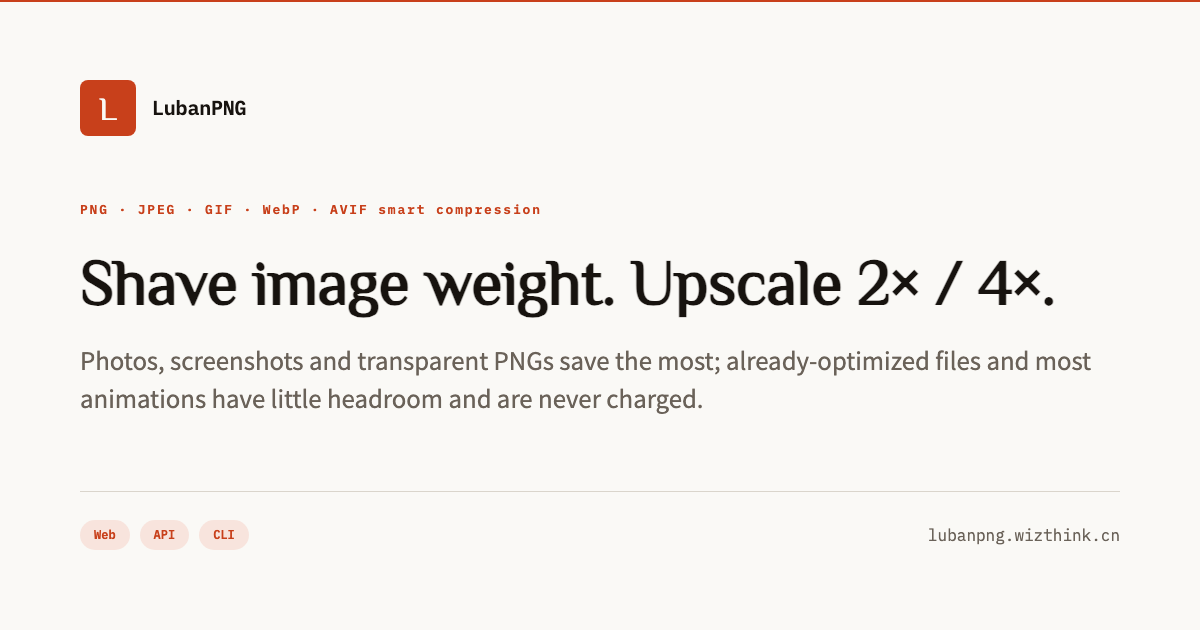
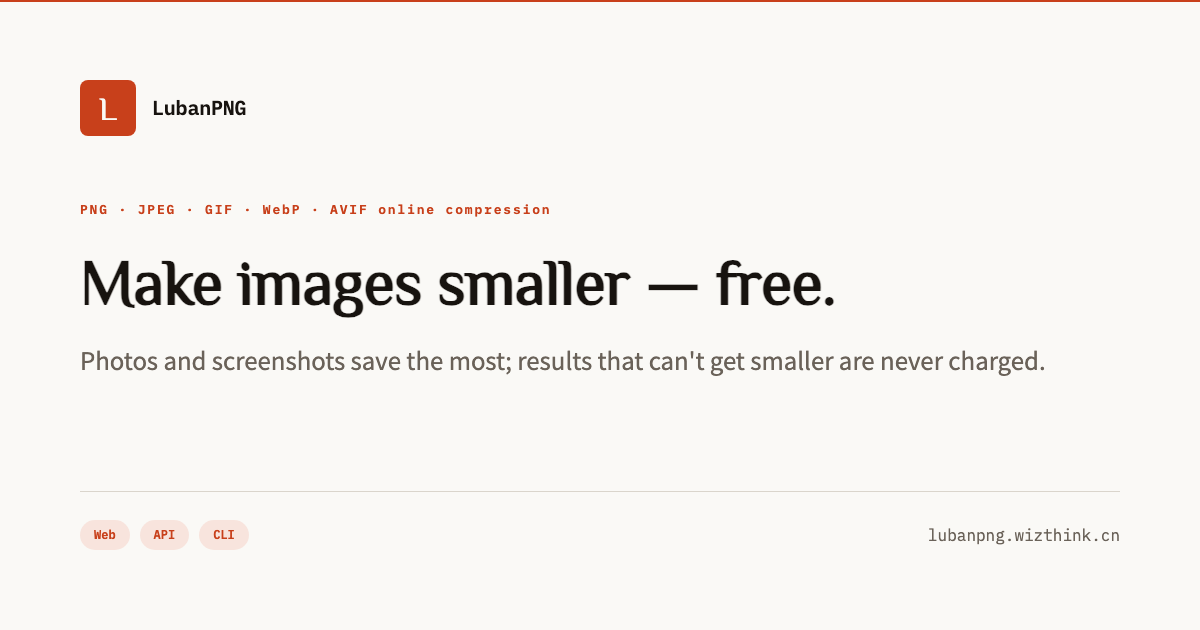
Rewrite the home hero copy in plain language and drop the lede

diff --git a/apps/web/src/i18n/locales/en.ts b/apps/web/src/i18n/locales/en.ts
@@ -31,13 +31,8 @@ export const en: Messages = {
   "footer.privacy.short": "Privacy",
   "footer.source": "Open source on GitHub · Curzibn/LubanPNG",
 
-  "home.eyebrow": "PNG · JPEG · GIF · WebP · AVIF smart compression",
-  "home.title": "Shave image weight. Upscale 2× / 4×.",
-  "home.lede.mobile":
-    "Photos, screenshots and transparent PNGs usually save the most; already-optimized files and most animations have little headroom, and anything that can't be made smaller is never charged. One click also converts to WebP / AVIF. Upscaling 2× / 4× runs through the API; failed upscales are never charged.",
-  "home.lede.desktop":
-    "LubanPNG gives each format its own path: PNG is palette-quantized then polished losslessly, JPEG has its source quality recovered first so already-light images are never re-compressed, animations are quantized frame by frame with the animation intact, and static images convert to WebP / AVIF in one click. Photos, screenshots and transparent PNGs usually save the most; already-optimized files and most animations have little headroom — a result that can't be made smaller is never charged. Upscaling 2× / 4× runs through the API; failed upscales are never charged.",
-  "home.lede.apiLink": "through the API",
+  "home.eyebrow": "PNG · JPEG · GIF · WebP · AVIF online compression",
+  "home.title": "Make images smaller — free.",
   "home.quota.anonymous.lead": "Today's free runs are used up.",
   "home.quota.anonymous.action": "Sign in to keep going",
   "home.quota.anonymous.body": "Signing up gives you 50 runs a month, shared across the web app, API and CLI.",
@@ -442,9 +437,9 @@ export const en: Messages = {
   "nf.body": "The address may be mistyped, or the page has moved.",
   "nf.back": "Back home",
 
-  "meta.home.title": "LubanPNG · Shave image weight. Upscale 2× / 4×",
+  "meta.home.title": "LubanPNG · Compress images online, free",
   "meta.home.description":
-    "Compress PNG, JPEG, GIF, WebP and AVIF images online — static images convert formats, animations stay animated — and upscale PNG or JPEG 2× or 4×. Photos, screenshots and transparent PNGs save the most, while already-optimized files and most animations have little headroom; results that can't get smaller are never charged, and failed upscales are never charged either. One quota shared across web, API and CLI, free to use.",
+    "Compress PNG, JPEG, GIF, WebP and AVIF images online — animations stay animated, static images convert between formats, and PNG or JPEG upscale 2× or 4×. Results that can't get smaller are never charged. Free, with one quota across web, API and CLI.",
   "meta.pricing.title": "Pricing · LubanPNG",
   "meta.pricing.description": "One quota shared across web, API and CLI: 5 runs a day signed out, 50 a month signed in. Compressions are counted only when the output really gets smaller; a successful upscale costs 1 run and failed upscales are never charged. Pro and metered plans are in the works.",
   "meta.developers.title": "Developers · LubanPNG",
@@ -460,7 +455,7 @@ export const en: Messages = {
   "meta.dashboard.description": "Your LubanPNG dashboard: quota usage, API keys and recent tasks.",
   "meta.notFound.title": "Page not found · LubanPNG",
   "meta.notFound.description": "The page you were looking for doesn't exist or has moved.",
-  "meta.ogImageAlt": "LubanPNG: shave image weight, upscale 2× / 4×. Compression supports PNG · JPEG · GIF · WebP · AVIF; upscaling supports PNG / JPEG",
+  "meta.ogImageAlt": "LubanPNG: compress images online — PNG, JPEG, GIF, WebP and AVIF, plus 2× / 4× upscaling for PNG and JPEG",
 
   "api.networkError": "Network error — check your connection and try again",
   "api.unreadable": "The service is unavailable right now. Please try again later.",

diff --git a/apps/web/src/i18n/locales/zh-CN.ts b/apps/web/src/i18n/locales/zh-CN.ts
@@ -29,13 +29,8 @@ export const zhCN = {
   "footer.privacy.short": "隐私",
   "footer.source": "开源于 GitHub · Curzibn/LubanPNG",
 
-  "home.eyebrow": "PNG · JPEG · GIF · WebP · AVIF 智能压缩",
-  "home.title": "把图片刨薄，也能放大 2×、4×。",
-  "home.lede.mobile":
-    "照片、截图与透明 PNG 通常收益最大，已经压过的图和多数动图空间有限；压不小就不计次数，还能一键转 WebP / AVIF。放大 2× / 4× 通过 API，失败不计次数。",
-  "home.lede.desktop":
-    "鲁班刨按格式各走一套压缩路径：PNG 先做调色板量化再无损重编码，JPEG 先反推原图质量、低质量图不再重复压缩，动图逐帧量化并保留动画，静态图还能一键转成 WebP / AVIF。照片、截图与透明 PNG 通常收益最大；已经压过的图与多数动图空间有限，压不小就不计次数。放大 2× / 4× 通过 API，失败不计次数。",
-  "home.lede.apiLink": "通过 API",
+  "home.eyebrow": "PNG · JPEG · GIF · WebP · AVIF 在线压缩",
+  "home.title": "把图片变小，免费。",
   "home.quota.anonymous.lead": "今日免费次数已用完。",
   "home.quota.anonymous.action": "登录后继续用",
   "home.quota.anonymous.body": "注册即每月 50 次，网页、API、CLI 共用同一份额度。",
@@ -426,9 +421,9 @@ export const zhCN = {
   "nf.body": "地址可能写错了，或者页面已经移走。",
   "nf.back": "回到首页",
 
-  "meta.home.title": "LubanPNG · 把图片刨薄，也能放大 2×、4×",
+  "meta.home.title": "LubanPNG · 免费在线压缩图片",
   "meta.home.description":
-    "鲁班刨（LubanPNG）在线压缩 PNG、JPEG、GIF、WebP、AVIF 图片，静态图可转换格式，动图保留动画；也能把 PNG、JPEG 放大 2× 或 4×。照片、截图与透明 PNG 收益最大，已经压过的图与多数动图空间有限；压不小不计次数，放大失败同样不计次数。网页、API、CLI 共用一份额度，免费可用。",
+    "LubanPNG 在线压缩 PNG、JPEG、GIF、WebP、AVIF 图片：动图保留动画，静态图可转格式，也能放大 2×、4×。没变小不计次数，免费使用，网页、API、CLI 共用额度。",
   "meta.pricing.title": "定价 · LubanPNG",
   "meta.pricing.description": "网页、API、CLI 共用一份额度：未登录每天 5 次，注册后每月 50 次；压缩只有真正产出更小文件才计次，放大成功计 1 次且失败不计次；Pro 与按量套餐规划中。",
   "meta.developers.title": "开发者 · LubanPNG",
@@ -443,7 +438,7 @@ export const zhCN = {
   "meta.dashboard.description": "LubanPNG 工作台：额度用量、API Key 与最近任务。",
   "meta.notFound.title": "页面不存在 · LubanPNG",
   "meta.notFound.description": "你访问的页面不存在或已经移走。",
-  "meta.ogImageAlt": "鲁班刨：把图片刨薄，也能放大 2×、4×。压缩支持 PNG·JPEG·GIF·WebP·AVIF，放大支持 PNG·JPEG",
+  "meta.ogImageAlt": "LubanPNG：在线压缩图片，支持 PNG、JPEG、GIF、WebP、AVIF，也能放大 PNG、JPEG 2×、4×",
 
   "api.networkError": "网络错误，请检查连接后重试",
   "api.unreadable": "服务暂时不可用，请稍后再试",

diff --git a/apps/web/src/pages/home/HomePage.tsx b/apps/web/src/pages/home/HomePage.tsx
@@ -19,37 +19,14 @@ import { QuotaChip } from "./QuotaChip.tsx"
 import { ResultsBoard } from "./ResultsBoard.tsx"
 import { useCompressor } from "./useCompressor.ts"
 
-const LedeText = ({ text, label, to }: { text: string; label: string; to: string }) => {
-  const index = text.indexOf(label)
-  if (index < 0) return <>{text}</>
-  return (
-    <>
-      {text.slice(0, index)}
-      <Link to={to} className="text-vermilion hover:text-vermilion-hover">
-        {label}
-      </Link>
-      {text.slice(index + label.length)}
-    </>
-  )
-}
-
 const Hero = () => {
-  const { locale, t } = useI18n()
-  const upscaleHref = `${localizedPath("/developers", locale)}#upscale`
+  const { t } = useI18n()
   return (
     <section className="flex flex-col gap-3.5 pb-5 pt-9 md:items-center md:gap-5 md:pb-9 md:pt-18 md:text-center">
       <Eyebrow size="responsive">{t("home.eyebrow")}</Eyebrow>
       <h1 className="max-w-prose font-display text-display-mobile text-balance text-ink md:text-display-hero">
         {t("home.title")}
       </h1>
-      <p className="max-w-lede text-body text-pretty text-ink-secondary md:text-lede">
-        <span className="md:hidden">
-          <LedeText text={t("home.lede.mobile")} label={t("home.lede.apiLink")} to={upscaleHref} />
-        </span>
-        <span className="hidden md:inline">
-          <LedeText text={t("home.lede.desktop")} label={t("home.lede.apiLink")} to={upscaleHref} />
-        </span>
-      </p>
     </section>
   )
 }

diff --git a/packages/design-tokens/og-copy.ts b/packages/design-tokens/og-copy.ts
@@ -13,18 +13,18 @@ export const ogLocales: OgLocaleCopy[] = [
     file: "og.png",
     lang: "zh-CN",
     mark: "鲁",
-    eyebrow: "PNG · JPEG · GIF · WebP · AVIF 智能压缩",
-    headline: "把图片刨薄，也能放大 2×、4×。",
-    lede: "照片、截图与透明 PNG 收益最大；已经压过的图与多数动图空间有限，压不小不计次数。",
+    eyebrow: "PNG · JPEG · GIF · WebP · AVIF 在线压缩",
+    headline: "把图片变小，免费。",
+    lede: "照片和截图收益最大；没变小不计次数。",
     chips: ["网页", "API", "CLI"],
   },
   {
     file: "og-en.png",
     lang: "en",
     mark: "L",
-    eyebrow: "PNG · JPEG · GIF · WebP · AVIF smart compression",
-    headline: "Shave image weight. Upscale 2× / 4×.",
-    lede: "Photos, screenshots and transparent PNGs save the most; already-optimized files and most animations have little headroom and are never charged.",
+    eyebrow: "PNG · JPEG · GIF · WebP · AVIF online compression",
+    headline: "Make images smaller — free.",
+    lede: "Photos and screenshots save the most; results that can't get smaller are never charged.",
     chips: ["Web", "API", "CLI"],
   },
 ]

diff --git a/apps/web/src/app/renderLocale.test.tsx b/apps/web/src/app/renderLocale.test.tsx
@@ -26,7 +26,7 @@ afterAll(() => {
 })
 
 const chineseRoutes: ReadonlyArray<readonly [string, string]> = [
-  ["/", "把图片刨薄，也能放大 2×、4×。"],
+  ["/", "把图片变小，免费。"],
   ["/pricing", "一个额度池，三个入口"],
   ["/developers", "开发者"],
   ["/login", "登录或注册"],
@@ -37,7 +37,7 @@ const chineseRoutes: ReadonlyArray<readonly [string, string]> = [
 ]
 
 const englishRoutes: ReadonlyArray<readonly [string, string]> = [
-  ["/en/", "Shave image weight. Upscale 2× / 4×."],
+  ["/en/", "Make images smaller — free."],
   ["/en/pricing", "One quota pool, three doors"],
   ["/en/developers", "Developers"],
   ["/en/login", "Sign in or sign up"],
@@ -61,6 +61,6 @@ describe("localized rendering", () => {
   })
 
   it.each(chineseRoutes)("leaves no English marketing copy on %s", (path) => {
-    expect(render(path)).not.toContain("Shave image weight. Upscale 2× / 4×.")
+    expect(render(path)).not.toContain("Make images smaller — free.")
   })
 })

diff --git a/apps/web/src/i18n/messages.test.ts b/apps/web/src/i18n/messages.test.ts
@@ -114,21 +114,6 @@ describe("dictionaries", () => {
     }
   })
 
-  it("says per-format where the wins actually are", () => {
-    for (const dictionary of [zhCN, en]) {
-      expect(dictionary["home.lede.desktop"]).toMatch(/拍照|照片|screenshot|photo/i)
-      expect(dictionary["home.lede.desktop"]).toMatch(/already-optimized|压过/i)
-    }
-  })
-
-  it("keeps the API upscale path linkable inside the home lede", () => {
-    for (const dictionary of [zhCN, en]) {
-      for (const key of ["home.lede.mobile", "home.lede.desktop"] as const) {
-        expect(dictionary[key]).toContain(dictionary["home.lede.apiLink"])
-      }
-    }
-  })
-
   it("keeps the English CLI samples in the order the CLI prints", () => {
     expect(en["teaser.cli.sample"]).toContain("saved 1.72 MB")
     expect(en["dev.cli.sample"]).toContain("saved 2.11 MB")

diff --git a/apps/web/src/pages/home/HomePage.test.tsx b/apps/web/src/pages/home/HomePage.test.tsx
@@ -105,9 +105,4 @@ describe("home quota guidance", () => {
     expect(html).toContain("1 run left this month")
     expect(html).not.toContain("Join the waitlist")
   })
-
-  it("links the API upscale hint to the developer anchor in both languages", () => {
-    expect(renderHome("/", meFor({ remaining: 5 }))).toContain('href="/developers#upscale"')
-    expect(renderHome("/en/", meFor({ remaining: 5 }))).toContain('href="/en/developers#upscale"')
-  })
 })
